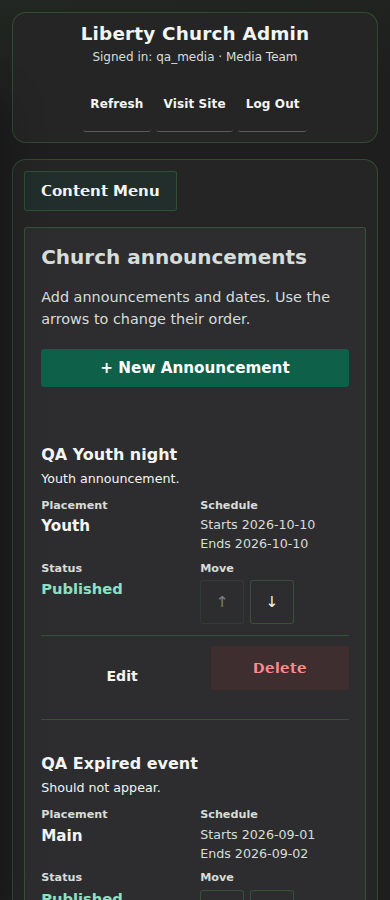
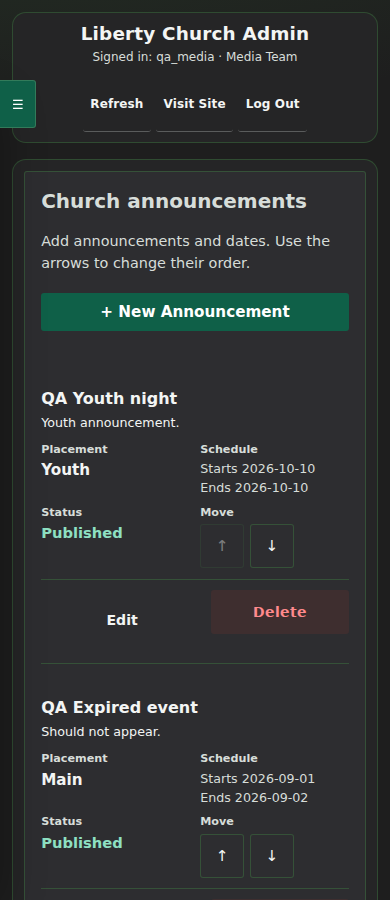
Clarify workspace heroes and restore floating navigation; make accounts readable on mobile
Separate role introductions from forms with light panels, dark text, and direct starting links. Restore the fixed left-edge menu tab and remove the redundant Content Menu button. Replace overflowing account tables with compact responsive entries and mobile account forms while preserving authentication, permissions, CSRF, and account safeguards.

Validated 320–1366px layouts, contrast, menu bounds, local QA account actions, existing role gates, cross-device planner persistence, archives, MMS, PHP syntax, and repeat deployment.

diff --git a/assets/admin-workspace.css b/assets/admin-workspace.css
@@ -143,12 +143,7 @@
 body.admin-dark:has(.planner-page) .admin-content-head {margin-bottom:0}
 body.admin-dark:has(.planner-page) .admin-content-head p {display:none}
 .planner-page .planner-breadcrumb {margin:.4rem 0 1rem}
-@media(min-width:1100px){
- body.admin-dark:has(.planner-page):not(.checklist-window) .admin-manager-panel{margin-left:296px}
- body.admin-dark:has(.planner-page):not(.checklist-window) .resource-nav{left:20px;top:135px;bottom:20px;width:280px;transform:none;border-radius:3px}
- body.admin-dark:has(.planner-page):not(.checklist-window) .resource-nav-launcher,
- body.admin-dark:has(.planner-page):not(.checklist-window) .resource-nav-backdrop{display:none}
-}
+
 @media(max-width:700px){
  body.admin-dark:has(.planner-page) .admin-topbar {padding:.55rem .6rem;gap:.25rem;margin-bottom:.6rem}
  body.admin-dark:has(.planner-page) .admin-topbar .admin-top-link{font-size:.75rem;padding:.35rem .3rem;min-height:32px}
@@ -286,3 +281,58 @@ body.admin-dark .admin-shell .announcement-move-cell .move-btn:disabled{opacity:
  body.admin-dark .admin-content:has(.albums-grid) .admin-content-head{display:none}
  .workspace .planner-section-tabs{margin:.6rem 0 .6rem;padding-bottom:.5rem}
 }
+
+/* A clear starting point, visually separate from the dark working area. */
+body.admin-dark .planner-page .planner-work-header{background:#edf3ef;color:#17392c;border:1px solid #a6bdae;border-left:5px solid #0f6048;border-radius:3px;padding:1.25rem;margin:0 0 1.25rem;box-sizing:border-box}
+body.admin-dark .planner-page .planner-work-header h2{color:#17392c;font-size:1.6rem;margin:.35rem 0 .6rem;max-width:42rem}
+body.admin-dark .planner-page .planner-work-header .planner-eyebrow{color:#0f6048;font-size:.78rem;text-transform:uppercase;letter-spacing:.08em;font-weight:700}
+body.admin-dark .planner-page .planner-work-header .planner-first-step{color:#345343;font-size:.95rem;line-height:1.6;margin:0}
+body.admin-dark .planner-page .planner-start-button{background:#0f6048;color:#fff;border:1px solid #0f6048;box-shadow:none;min-height:44px;margin:1rem 0 0;font-size:.9rem;text-decoration:none}
+body.admin-dark .planner-page .planner-start-button:hover{background:#124d3b;color:#fff}
+body.admin-dark .planner-page .planner-start-button:focus-visible{outline:3px solid #17392c;outline-offset:3px}
+#planner-work-start{scroll-margin-top:1rem}
+/* Restore the original fixed left-edge tab; there is no duplicate page button. */
+body.admin-dark .admin-shell .resource-nav-launcher:not(.open),body.admin-dark .admin-shell .resource-nav-launcher.open{display:inline-flex!important;top:5rem;width:36px;height:48px;opacity:1;background:#0f6048;color:#fff;border-radius:0 3px 3px 0!important;box-shadow:none}
+body.admin-dark .admin-shell .resource-nav-launcher:focus-visible{outline:2px solid #fff;outline-offset:2px}
+
+/* Compact account entries: identity, status, dates, then deliberate actions. */
+body.admin-dark .admin-content:has(.account-management) .admin-content-head,body.admin-dark .admin-content:has(.account-editor) .admin-content-head{display:none}
+body.admin-dark .admin-shell .account-management,body.admin-dark .admin-shell .account-editor{min-width:0;max-width:1050px;width:100%;box-sizing:border-box;gap:1rem}
+body.admin-dark .admin-shell .account-page-header{display:flex;gap:1rem;justify-content:space-between;align-items:center;background:#edf3ef;color:#17392c;border-left:4px solid #0f6048;border-radius:3px;padding:1.1rem}
+body.admin-dark .admin-shell .account-page-header h2{font-size:1.4rem;color:#17392c;margin:.25rem 0 .45rem;line-height:1.3}
+body.admin-dark .admin-shell .account-page-header p:not(.account-eyebrow){color:#345343;font-size:.9rem;line-height:1.5;margin:0}
+body.admin-dark .admin-shell .account-eyebrow{font-size:.75rem;letter-spacing:.08em;font-weight:700;line-height:1.5;margin:0;color:var(--admin-muted)}
+body.admin-dark .admin-shell .account-page-header .account-eyebrow{color:#0f6048}
+body.admin-dark .admin-shell .account-page-header .btn-primary{background:#0f6048;color:#fff;white-space:nowrap;box-shadow:none}
+body.admin-dark .admin-shell .account-list{list-style:none;padding:0;margin:0;min-width:0}
+body.admin-dark .admin-shell .account-entry{display:grid;grid-template-columns:minmax(0,1fr) auto;gap:.7rem 1rem;padding:1rem 0;border-bottom:1px solid var(--admin-border);align-items:start;min-width:0}
+body.admin-dark .admin-shell .account-entry:last-child{border-bottom:0;padding-bottom:0}
+body.admin-dark .admin-shell .account-identity{min-width:0;overflow-wrap:anywhere}
+body.admin-dark .admin-shell .account-identity h3{font-size:1.05rem;line-height:1.4;margin:0;color:var(--admin-text)}
+body.admin-dark .admin-shell .account-identity p{font-size:.85rem;line-height:1.5;margin:.2rem 0 0;color:var(--admin-muted)}
+body.admin-dark .admin-shell .account-identity small{display:block;color:#a4d9c4;margin-top:.2rem;font-size:.75rem}
+body.admin-dark .admin-shell .account-status{font-size:.75rem;line-height:1.4;font-weight:600;border-radius:3px;padding:.3rem .5rem;border:1px solid #498f75;white-space:nowrap}
+body.admin-dark .admin-shell .account-status.is-active{background:#173d30;color:#b4f8cf}
+body.admin-dark .admin-shell .account-status.is-disabled{background:#49282d;color:#ffbdc0;border-color:#a76066}
+body.admin-dark .admin-shell .account-metadata{display:grid;grid-template-columns:minmax(0,1fr) minmax(0,1fr);gap:.6rem;margin:0;grid-column:1/-1;min-width:0}
+body.admin-dark .admin-shell .account-metadata div{min-width:0}
+body.admin-dark .admin-shell .account-metadata dt{font-size:.72rem;line-height:1.5;color:var(--admin-muted);margin-bottom:.2rem}
+body.admin-dark .admin-shell .account-metadata dd{font-size:.8rem;line-height:1.5;margin:0;color:var(--admin-text);overflow-wrap:anywhere}
+body.admin-dark .admin-shell .account-actions{display:grid;grid-template-columns:1fr 1fr;gap:.5rem;grid-column:1/-1}
+body.admin-dark .admin-shell .account-actions form{display:block;margin:0;min-width:0}
+body.admin-dark .admin-shell .account-actions .btn,body.admin-dark .admin-shell .account-editor-actions .btn{box-sizing:border-box;min-width:0;width:100%;min-height:44px;font:inherit;font-size:.85rem;box-shadow:none;line-height:1.3}
+body.admin-dark .admin-shell .account-actions .btn-secondary{background:#303835;color:#f3f5f4;border:1px solid #526b5b}
+body.admin-dark .admin-shell .account-actions .btn-danger{background:#49282d;color:#ffbdc0;border:1px solid #a76066}
+body.admin-dark .admin-shell .account-actions .btn-primary{background:#0f6048;color:#fff;border:1px solid #498f75}
+body.admin-dark .admin-shell .account-editor h2{font-size:1.4rem;line-height:1.3;margin:.1rem 0}
+body.admin-dark .admin-shell .account-editor-intro{color:var(--admin-muted);margin:0;font-size:.9rem;line-height:1.6}
+body.admin-dark .admin-shell .account-editor .form-grid{grid-template-columns:minmax(0,1fr) minmax(0,1fr);gap:1rem}
+body.admin-dark .admin-shell .account-editor label{min-width:0;font-size:.85rem;line-height:1.5}
+body.admin-dark .admin-shell .account-editor input:not([type=checkbox]),body.admin-dark .admin-shell .account-editor select{box-sizing:border-box;width:100%;min-width:0;max-width:100%;min-height:44px;font-size:16px;background:#2d2d30;color:#f3f5f4;border:1px solid #6e8576}
+body.admin-dark .admin-shell .account-editor-actions{display:grid;grid-template-columns:minmax(0,2fr) minmax(0,1fr);gap:.6rem;padding-top:1rem;border-top:1px solid var(--admin-border)}
+@media(min-width:1000px){body.admin-dark .admin-shell .account-entry{grid-template-columns:minmax(0,1.3fr) auto minmax(0,1.5fr) 185px;align-items:center}body.admin-dark .admin-shell .account-metadata,body.admin-dark .admin-shell .account-actions{grid-column:auto}}
+@media(max-width:700px){body.admin-dark .planner-page .planner-work-header{padding:1rem;margin-bottom:1rem}body.admin-dark .planner-page .planner-work-header h2{font-size:1.35rem}body.admin-dark .planner-page .planner-work-header .planner-first-step{font-size:.9rem}body.admin-dark .planner-page .planner-start-button{width:100%;padding:.55rem .7rem}body.admin-dark .admin-shell .account-page-header{display:block;padding:.9rem}body.admin-dark .admin-shell .account-page-header .btn{display:flex;margin-top:.8rem;min-height:44px}body.admin-dark .admin-shell .account-editor .form-grid{grid-template-columns:minmax(0,1fr);gap:.8rem}body.admin-dark .admin-shell .account-entry{gap:.6rem .5rem}body.admin-dark .admin-shell .account-actions{margin-top:.15rem}}
+body.admin-dark .admin-content:has(.account-management),body.admin-dark .admin-content:has(.account-editor){min-width:0}
+body.admin-dark .admin-content:has(.account-management) .flash-stack,body.admin-dark .admin-content:has(.account-editor) .flash-stack{min-width:0;overflow-wrap:anywhere}
+body.admin-dark .admin-content:has(.account-management) .flash,body.admin-dark .admin-content:has(.account-editor) .flash{min-width:0;overflow-wrap:anywhere}
+body.admin-dark{--admin-nav-width:min(330px,calc(100vw - 44px))}

diff --git a/php/admin/service-planner/index.php b/php/admin/service-planner/index.php
@@ -31,9 +31,9 @@ try {
 }
 $popout=($_GET['popout']??'')==='1';
 if(!$popout)admin_page_start('Service Planner','service-planner');
-else { ?><!DOCTYPE html><html lang="en"><head><meta charset="utf-8"><meta name="viewport" content="width=device-width, initial-scale=1"><title>Sunday Checklist · Liberty Church</title><link rel="stylesheet" href="/assets/admin.css"><link rel="stylesheet" href="/assets/admin-workspace.css?v=3"></head><body class="admin-dark guide-body checklist-window"><main><?php }
+else { ?><!DOCTYPE html><html lang="en"><head><meta charset="utf-8"><meta name="viewport" content="width=device-width, initial-scale=1"><title>Sunday Checklist · Liberty Church</title><link rel="stylesheet" href="/assets/admin.css"><link rel="stylesheet" href="/assets/admin-workspace.css?v=4"></head><body class="admin-dark guide-body checklist-window"><main><?php }
 ?>
-<link rel="stylesheet" href="/assets/admin-workspace.css?v=3">
+<link rel="stylesheet" href="/assets/admin-workspace.css?v=4">
 <div class="workspace planner-page" id="service-planner" data-popout="<?=$popout?'1':'0'?>" data-section="<?=sp_e($section)?>" data-service-id="<?=$id?>" data-revision="<?=(int)($service['revision']??0)?>" data-archived="<?=!empty($service['is_archived'])?'1':'0'?>">
 <?php if($popout): ?><header class="guide-header"><h1>Sunday Checklist</h1><button class="btn btn-secondary" type="button" id="close-guide" hidden>Close</button></header><?php if($id): ?><nav class="planner-section-tabs"><a href="<?=sp_e(sp_page_url($id,'media',$computers))?>">Checklists</a><a href="<?=sp_e(sp_page_url($id,'sheet',$computers))?>">Service Sheet</a><a href="<?=sp_e(sp_page_url($id,'notes',$computers))?>">Notes</a></nav><?php endif; endif; ?>
 <?php if(!$popout)sp_work_intro($section,(bool)$service,(bool)$computers,(bool)($service['is_archived']??false)); ?>
@@ -42,7 +42,7 @@ else { ?><!DOCTYPE html><html lang="en"><head><meta charset="utf-8"><meta name="
     <p class="planner-eyebrow">START HERE</p><h3>1. Choose the Sunday</h3>
     <p>Then open your section from the left menu.</p>
     <?php if(sp_can_operate_media()): ?><a class="guide-link" href="<?=sp_e(sp_guide_url(0))?>" data-guide-popup target="liberty-service-guide">Open station manual ↗</a><?php endif; ?>
-    <section class="workspace-section"><h3>Open a Sunday service</h3>
+    <section class="workspace-section" id="planner-work-start" tabindex="-1"><h3>Open a Sunday service</h3>
     <?php if(!empty($services)): ?><ul class="service-history"><?php foreach($services as $item): $date=new DateTimeImmutable($item['service_date']); ?>
         <li><a class="feed-link" href="<?=sp_e(sp_page_url((int)$item['id'],$section,$computers))?>"><span>Sunday, <?=sp_e($date->format('F j, Y'))?> · Week <?=sp_e($date->format('W'))?></span><span><?=$item['is_archived']?'Archived':'Open'?></span></a></li>
     <?php endforeach; ?></ul><?php else: ?><p>No Sunday services yet.</p><?php endif; ?>
@@ -69,13 +69,13 @@ else { ?><!DOCTYPE html><html lang="en"><head><meta charset="utf-8"><meta name="
     <?php elseif(in_array($section,['sheet','notes'],true)): ?>
         <?php require __DIR__.'/service-sheet.php'; ?>
     <?php elseif($section==='announcements'): ?>
-        <section class="workspace-section"><p class="planner-eyebrow">PASTOR</p><h3>Church announcements</h3><nav class="planner-section-tabs"><a href="<?=sp_e(sp_page_url($id,'sermon'))?>">Sermon</a><a href="<?=sp_e(sp_page_url($id,'announcements'))?>" aria-current="page">Announcements</a></nav>
+        <section class="workspace-section" id="planner-work-start" tabindex="-1"><p class="planner-eyebrow">PASTOR</p><h3>Church announcements</h3><nav class="planner-section-tabs"><a href="<?=sp_e(sp_page_url($id,'sermon'))?>">Sermon</a><a href="<?=sp_e(sp_page_url($id,'announcements'))?>" aria-current="page">Announcements</a></nav>
         <form method="post" data-planner-form><?php sp_hidden($service,'announcements'); ?><fieldset <?=$archived?'disabled':''?> style="border:0;padding:0"><label for="announcement-notes">Announcement notes for Media</label><p>List dates, reminders, and what Media needs to prepare for this Sunday.</p><textarea id="announcement-notes" name="announcement_notes" maxlength="12000"><?=sp_e($service['sermon']['announcement_notes']??'')?></textarea><?php if(!$archived): ?><div class="actions"><button class="btn btn-primary" type="submit">Save announcement notes</button></div><?php endif; ?></fieldset><p class="save-message" role="status"></p></form>
         </section><section class="workspace-section"><h3>Website announcements &amp; upcoming dates</h3><p>Use the existing announcement editor for wording and dates. The team sees current and upcoming announcements on the Service Sheet.</p><?php if(!$archived): ?><div class="actions"><a class="btn btn-primary" href="/php/admin/announcements/new.php">Add church announcement</a><a class="btn btn-secondary" href="/php/admin/announcements/index.php">Manage church announcements</a></div><?php endif; ?>
         <?php foreach(sp_service_announcements($pdo,$service) as $announcement): ?><article class="sheet-announcement"><h4><?=sp_e($announcement['title'])?></h4><p><?=sp_e(sp_announcement_dates($announcement))?></p><div class="reference"><?=sp_e($announcement['body'])?></div></article><?php endforeach; ?></section>
         <?php sp_media_readiness($statuses); ?>
     <?php elseif($section==='sermon'): ?>
-        <section class="workspace-section"><p class="planner-eyebrow">PASTOR</p><div class="editor-heading"><h3>Sermon information</h3><?php sp_badge('sermon',$statuses['sermon']); ?></div><p>Enter the sermon once for the whole team.</p>
+        <section class="workspace-section" id="planner-work-start" tabindex="-1"><p class="planner-eyebrow">PASTOR</p><div class="editor-heading"><h3>Sermon information</h3><?php sp_badge('sermon',$statuses['sermon']); ?></div><p>Enter the sermon once for the whole team.</p>
         <nav class="planner-section-tabs"><a href="<?=sp_e(sp_page_url($id,'sermon'))?>" aria-current="page">Sermon</a><a href="<?=sp_e(sp_page_url($id,'announcements'))?>">Announcements</a></nav>
         <form method="post" data-planner-form><?php sp_hidden($service,'sermon'); ?><fieldset <?=$archived?'disabled':''?> style="border:0;padding:0;margin:0">
         <?php foreach(['title'=>'Sermon title','primary_scripture'=>'Primary scripture','additional_scriptures'=>'Additional scriptures'] as $key=>$label): ?>
@@ -88,7 +88,7 @@ else { ?><!DOCTYPE html><html lang="en"><head><meta charset="utf-8"><meta name="
         <?php if(!$archived): ?><div class="actions"><button class="btn btn-primary" type="submit">Save sermon information</button><a class="guide-link editor-sheet-link" href="<?=sp_e(sp_page_url($id,'sheet'))?>">View Service Sheet →</a></div><?php endif; ?></fieldset><p class="save-message" role="status"></p></form></section>
         <?php sp_media_readiness($statuses); ?>
     <?php elseif($section==='worship'): ?>
-        <section class="workspace-section"><p class="planner-eyebrow">MUSIC MINISTER</p><div class="editor-heading"><h3>Worship plan</h3><?php sp_badge('worship',$statuses['worship']); ?></div><p>Enter the songs in service order.</p>
+        <section class="workspace-section" id="planner-work-start" tabindex="-1"><p class="planner-eyebrow">MUSIC MINISTER</p><div class="editor-heading"><h3>Worship plan</h3><?php sp_badge('worship',$statuses['worship']); ?></div><p>Enter the songs in service order.</p>
         <form method="post" data-planner-form id="worship-form"><?php sp_hidden($service,'worship'); ?><fieldset <?=$archived?'disabled':''?> style="border:0;padding:0;margin:0">
         <div id="songs">
         <?php foreach($service['worship'] as $i=>$song)sp_song_editor($song,$i,$archived); ?>

diff --git a/php/admin/users/index.php b/php/admin/users/index.php
@@ -12,56 +12,38 @@ $roleLabels = admin_role_labels();
 
 admin_page_start('Manage Users', 'users');
 ?>
-<div class="card" style="gap:24px;">
-    <div style="display:flex;flex-wrap:wrap;gap:12px;align-items:center;justify-content:space-between;">
-        <div>
-            <h3 style="margin:0;">Administrator Accounts</h3>
-            <p style="margin:6px 0 0;color:var(--admin-muted);">Create, disable, or update login access for the team.</p>
-        </div>
+<section class="card account-management" aria-labelledby="accounts-heading">
+    <header class="account-page-header">
+        <div><p class="account-eyebrow">TEAM ACCESS</p><h2 id="accounts-heading">Manage accounts</h2>
+        <p>View each person’s access. Choose Edit to update their account.</p></div>
         <a class="btn btn-primary" href="/php/admin/users/new.php">Add user</a>
-    </div>
-
+    </header>
     <?php if ($users): ?>
-        <table class="table">
-            <thead>
-                <tr>
-                    <th>Username</th>
-                    <th>Role</th>
-                    <th>Status</th>
-                    <th>Created</th>
-                    <th>Last login</th>
-                    <th></th>
-                </tr>
-            </thead>
-            <tbody>
-            <?php foreach ($users as $user): ?>
-                <tr>
-                    <td><?= htmlspecialchars($user['username']) ?></td>
-                    <td><?= htmlspecialchars($roleLabels[$user['role']] ?? ucfirst($user['role'])) ?></td>
-                    <td>
-                        <?= (int)$user['is_active'] ? '<span class="badge">Active</span>' : '<span class="badge danger">Disabled</span>'; ?>
-                    </td>
-                    <td><?= htmlspecialchars(format_datetime((string)$user['created_at'])) ?></td>
-                    <td><?= $user['last_login'] ? htmlspecialchars(format_datetime((string)$user['last_login'])) : '<span class="badge muted">Never</span>' ?></td>
-                    <td class="actions">
-                        <a class="btn btn-secondary" href="/php/admin/users/edit.php?id=<?= (int)$user['id'] ?>">Edit</a>
-                        <?php if ((int)$user['id'] !== (admin_current_user()['id'] ?? 0)): ?>
-                            <form method="post" action="toggle.php" onsubmit="return confirm('Toggle active status for <?= htmlspecialchars($user['username']) ?>?');">
-                                <input type="hidden" name="csrf_token" value="<?= htmlspecialchars(csrf_token()) ?>">
-                                <input type="hidden" name="id" value="<?= (int)$user['id'] ?>">
-                                <button class="btn <?= (int)$user['is_active'] ? 'btn-danger' : 'btn-primary' ?>" type="submit">
-                                    <?= (int)$user['is_active'] ? 'Disable' : 'Activate' ?>
-                                </button>
-                            </form>
-                        <?php endif; ?>
-                    </td>
-                </tr>
-            <?php endforeach; ?>
-            </tbody>
-        </table>
-    <?php else: ?>
-        <div class="empty-state">No admin accounts created yet.</div>
-    <?php endif; ?>
-</div>
-<?php
-admin_page_end();
+    <ul class="account-list" aria-label="Team accounts">
+    <?php foreach ($users as $user): $isSelf = (int)$user['id'] === (admin_current_user()['id'] ?? 0); ?>
+        <li class="account-entry">
+            <div class="account-identity"><h3><?= htmlspecialchars($user['username']) ?></h3>
+                <p><?= htmlspecialchars($roleLabels[$user['role']] ?? ucfirst($user['role'])) ?></p>
+                <?php if ($isSelf): ?><small>Your account</small><?php endif; ?>
+            </div>
+            <span class="account-status <?= (int)$user['is_active'] ? 'is-active' : 'is-disabled' ?>"><?= (int)$user['is_active'] ? 'Active' : 'Disabled' ?></span>
+            <dl class="account-metadata">
+                <div><dt>Created</dt><dd><?= htmlspecialchars(format_datetime((string)$user['created_at'])) ?></dd></div>
+                <div><dt>Last login</dt><dd><?= $user['last_login'] ? htmlspecialchars(format_datetime((string)$user['last_login'])) : 'Never' ?></dd></div>
+            </dl>
+            <div class="account-actions" role="group" aria-label="Actions for <?= htmlspecialchars($user['username']) ?>">
+                <a class="btn btn-secondary" href="/php/admin/users/edit.php?id=<?= (int)$user['id'] ?>">Edit</a>
+                <?php if (!$isSelf): ?>
+                <form method="post" action="toggle.php" onsubmit="return confirm('Toggle active status for <?= htmlspecialchars($user['username']) ?>?');">
+                    <input type="hidden" name="csrf_token" value="<?= htmlspecialchars(csrf_token()) ?>">
+                    <input type="hidden" name="id" value="<?= (int)$user['id'] ?>">
+                    <button class="btn <?= (int)$user['is_active'] ? 'btn-danger' : 'btn-primary' ?>" type="submit"><?= (int)$user['is_active'] ? 'Disable' : 'Activate' ?></button>
+                </form>
+                <?php endif; ?>
+            </div>
+        </li>
+    <?php endforeach; ?>
+    </ul>
+    <?php else: ?><div class="empty-state">No admin accounts created yet.</div><?php endif; ?>
+</section>
+<?php admin_page_end();

diff --git a/deploy/feature.php b/deploy/feature.php
@@ -57,7 +57,7 @@ if (!str_contains($layout, 'admin_workspace_groups($resourceGroups)')) {
  if ($count !== 1) throw new RuntimeException('Could not integrate admin navigation. No live files changed.');
 }
 if (!str_contains($layout, '/assets/admin-workspace.css')) {
- $layout = str_replace('</head>', '<link rel="stylesheet" href="/assets/admin-workspace.css?v=3">'."\n</head>", $layout);
+ $layout = str_replace('</head>', '<link rel="stylesheet" href="/assets/admin-workspace.css?v=4">'."\n</head>", $layout);
 }
 if (!str_contains($layout, 'admin_workspace_navigation($active)')) {
  $menuLoop = '<?php foreach ($resourceGroups as $group): ?>';
@@ -67,12 +67,15 @@ if (!str_contains($layout, 'admin_workspace_navigation($active)')) {
 $layout = str_replace('<a class="resource-link" href="/php/admin/features/index.php">Feature</a>', '', $layout);
 // Keep overrides after the host stylesheet, and expire cached planner assets.
 $layout=preg_replace('~<link\b[^>]*href="/assets/admin-workspace\.css[^"\s]*"[^>]*>~','',$layout);
-$layout=str_replace('</head>','<link rel="stylesheet" href="/assets/admin-workspace.css?v=3">'."\n</head>",$layout);
+$layout=str_replace('</head>','<link rel="stylesheet" href="/assets/admin-workspace.css?v=4">'."\n</head>",$layout);
+// Restore the existing floating left-edge navigation control.
+$layout=preg_replace('~<div\b[^>]*class="admin-mobile-row"[^>]*>\s*<button\b[^>]*class="[^"]*resource-menu-inline[^"]*"[^>]*>.*?</button>\s*</div>~s','',$layout);
+$layout=str_replace('aria-label="Open content menu"','aria-label="Open navigation menu"',$layout);
 add_write('php/admin/layout.php',$layout);
 $ht=is_file($root.'/.htaccess')?file_get_contents($root.'/.htaccess'):'';
 if (!str_contains($ht,'RewriteRule ^operation-christmas-child')) $ht="<IfModule mod_rewrite.c>\nRewriteEngine On\nRewriteRule ^operation-christmas-child/?$ operation-christmas-child.php [L]\n</IfModule>\n".$ht;
 add_write('.htaccess',$ht);
-foreach (['api/feature/index.php','assets/js/feature.js','assets/occ.css','assets/ui-preferences.css','assets/operation-christmas-child.jpg','assets/operation-christmas-child-share.png','operation-christmas-child.php','php/features.php','php/api/feature.php','php/admin/features/index.php','php/admin/service-planner/access.php','php/admin/workspace-navigation.php','php/admin/media/index.php','php/admin/service-planner/presentation.php','php/admin/service-planner/checklists.php','php/admin/service-planner/foh.php','php/admin/service-planner/guide.php','php/admin/service-planner/service-sheet.php','php/admin/service-planner/model.php','php/admin/service-planner/index.php','php/admin/service-planner/state.php','php/admin/service-planner/default-tasks.json','database/service_planner.sql','assets/admin-workspace.css','assets/js/service-planner.js','assets/js/service-guide.js','php/admin/announcements/index.php','php/admin/announcements/new.php'] as $path) {
+foreach (['api/feature/index.php','assets/js/feature.js','assets/occ.css','assets/ui-preferences.css','assets/operation-christmas-child.jpg','assets/operation-christmas-child-share.png','operation-christmas-child.php','php/features.php','php/api/feature.php','php/admin/features/index.php','php/admin/service-planner/access.php','php/admin/workspace-navigation.php','php/admin/media/index.php','php/admin/service-planner/presentation.php','php/admin/service-planner/checklists.php','php/admin/service-planner/foh.php','php/admin/service-planner/guide.php','php/admin/service-planner/service-sheet.php','php/admin/service-planner/model.php','php/admin/service-planner/index.php','php/admin/service-planner/state.php','php/admin/service-planner/default-tasks.json','database/service_planner.sql','assets/admin-workspace.css','assets/js/service-planner.js','assets/js/service-guide.js','php/admin/announcements/index.php','php/admin/announcements/new.php','php/admin/users/index.php','php/admin/users/new.php','php/admin/users/edit.php'] as $path) {
  $source=$repo.'/'.$path;
  if (!is_file($source)) throw new RuntimeException('Missing feature file: '.$path);
  add_write($path,file_get_contents($source));

diff --git a/tests/service_planner_deploy_test.py b/tests/service_planner_deploy_test.py
@@ -4,12 +4,16 @@ if os.environ.get('DB_NAME')!='church_test':raise RuntimeError('Use the isolated
 r=Path(__file__).resolve().parent.parent;tmp=Path(tempfile.mkdtemp(prefix='church-deploy-check-'));target=tmp/'public_html'
 shutil.copytree(r,target,ignore=shutil.ignore_patterns('.git','node_modules','uploads'))
 marker='<!-- QA custom host content retained -->';p=target/'index.html';p.write_text(p.read_text().replace('</body>',marker+'\n</body>'))
-config=(target/'php/config.php').read_bytes();auth=(target/'php/admin/bootstrap.php').read_bytes()
+host_layout=target/'php/admin/layout.php'
+host_layout.write_text(host_layout.read_text().replace('<header class="admin-content-head">','<div class="admin-mobile-row"><button type="button" class="btn btn-secondary resource-menu-inline" aria-controls="adminResourceMenu">Content Menu</button></div><header class="admin-content-head">'))
+config=(target/'php/config.php').read_bytes();auth=(target/'php/admin/bootstrap.php').read_bytes();toggle=(target/'php/admin/users/toggle.php').read_bytes()
 php=[os.environ.get('PLANNER_TEST_PHP','php')]+json.loads(os.environ.get('PLANNER_TEST_PHP_ARGUMENTS','[]'))
 for i in range(2):
  result=subprocess.run(php+[str(r/'deploy/feature.php'),str(target)],capture_output=True,text=True);assert result.returncode==0,result.stderr
  assert marker in (target/'index.html').read_text();assert config==(target/'php/config.php').read_bytes();assert auth==(target/'php/admin/bootstrap.php').read_bytes()
- layout=(target/'php/admin/layout.php').read_text();assert layout.count('admin_workspace_navigation($active)')==1;assert 'admin-workspace.css?v=3' in layout
+ layout=(target/'php/admin/layout.php').read_text();assert layout.count('admin_workspace_navigation($active)')==1;assert 'admin-workspace.css?v=4' in layout
+ assert toggle==(target/'php/admin/users/toggle.php').read_bytes();assert 'Content Menu</button>' not in layout
+ for file in ['index.php','edit.php','new.php']:assert (target/'php/admin/users'/file).read_bytes()==(r/'php/admin/users'/file).read_bytes()
  for file in ['access.php','guide.php','checklists.php','foh.php','presentation.php','service-sheet.php']:assert (target/'php/admin/service-planner'/file).exists()
  assert subprocess.run(php+['-l',str(target/'php/admin/layout.php')],capture_output=True).returncode==0
 before=(target/'index.html').read_bytes();p=target/'php/admin/layout.php';p.write_text('<?php function admin_page_start() {} ?>');bad=subprocess.run(php+[str(r/'deploy/feature.php'),str(target)],capture_output=True,text=True);assert bad.returncode!=0;assert before==(target/'index.html').read_bytes()

diff --git a/php/admin/layout.php b/php/admin/layout.php
@@ -123,7 +123,7 @@ function admin_page_start(string $title, string $active = ''): void
         <link rel="preconnect" href="https://fonts.gstatic.com" crossorigin>
         <link href="https://fonts.googleapis.com/css2?family=Inter:wght@400;500;600;700&display=swap" rel="stylesheet">
         <link rel="stylesheet" href="/assets/admin.css?v=<?= rawurlencode($cssVersion) ?>">
-        <link rel="stylesheet" href="/assets/admin-workspace.css?v=3">
+        <link rel="stylesheet" href="/assets/admin-workspace.css?v=4">
     </head>
     <body class="admin-dark">
     <div class="admin-shell">
@@ -140,7 +140,7 @@ function admin_page_start(string $title, string $active = ''): void
         </header>
 
         <section class="admin-manager-panel">
-            <button type="button" class="resource-nav-launcher" aria-label="Open content menu" aria-expanded="false" aria-controls="adminResourceMenu">
+            <button type="button" class="resource-nav-launcher" aria-label="Open navigation menu" aria-expanded="false" aria-controls="adminResourceMenu">
                 <span class="launcher-open" aria-hidden="true">☰</span>
                 <span class="launcher-close" aria-hidden="true">×</span>
             </button>
@@ -187,9 +187,6 @@ function admin_page_start(string $title, string $active = ''): void
             </aside>
 
             <main class="admin-content">
-                <div class="admin-mobile-row">
-                    <button type="button" class="btn btn-secondary resource-menu-inline" aria-expanded="false" aria-controls="adminResourceMenu">Content Menu</button>
-                </div>
                 <header class="admin-content-head">
                     <div>
                         <h2><?= htmlspecialchars($title) ?></h2>

diff --git a/php/admin/service-planner/guide.php b/php/admin/service-planner/guide.php
@@ -41,7 +41,7 @@ try {
 }catch(Throwable $e){if($uploadedPath && is_file($uploadedPath))unlink($uploadedPath);$error=$e instanceof InvalidArgumentException || $e->getCode()===409?$e->getMessage():'The guide could not load or save. Try again.';if(!($e instanceof InvalidArgumentException) && $e->getCode()!==409)error_log($e->getMessage());}
 $resources=$task?sp_decode($task['resources_json']??'[]'):[];
 ?>
-<!DOCTYPE html><html lang="en"><head><meta charset="utf-8"><meta name="viewport" content="width=device-width, initial-scale=1"><title><?=sp_e($task?$task['title']:'Station Manual')?> · Liberty Church</title><link rel="stylesheet" href="/assets/admin.css"><link rel="stylesheet" href="/assets/admin-workspace.css?v=3"></head>
+<!DOCTYPE html><html lang="en"><head><meta charset="utf-8"><meta name="viewport" content="width=device-width, initial-scale=1"><title><?=sp_e($task?$task['title']:'Station Manual')?> · Liberty Church</title><link rel="stylesheet" href="/assets/admin.css"><link rel="stylesheet" href="/assets/admin-workspace.css?v=4"></head>
 <body class="admin-dark guide-body"><main class="workspace guide-workspace">
     <header class="guide-header"><div><p class="planner-eyebrow">LIBERTY CHURCH</p><h1>Station Manual</h1></div><button type="button" class="btn btn-secondary" id="close-guide" hidden>Close guide</button></header>
     <nav class="planner-breadcrumb"><a href="<?=sp_e(sp_guide_url($id))?>">All stations</a><?php if($station): ?><span aria-hidden="true">/</span><a href="<?=sp_e(sp_guide_url($id,$station))?>"><?=sp_e(sp_stations()[$station][0])?></a><?php endif; ?></nav>

diff --git a/php/admin/service-planner/presentation.php b/php/admin/service-planner/presentation.php
@@ -127,5 +127,6 @@ function sp_work_intro(string $section, bool $hasSunday, bool $hasStations, bool
     if(!$intro)return;
     if(!$hasSunday)$intro[2]='First, open the Sunday service below. Then complete your section.';
     if($archived){$intro[1]='Saved Sunday · '.$intro[0];$intro[2]='This Sunday is archived. You can read its saved information and completion state.';}
-    ?><header class="planner-work-header"><p class="planner-eyebrow"><?=sp_e($intro[0])?> workspace</p><h2><?=sp_e($intro[1])?></h2><p class="planner-first-step"><?=sp_e($intro[2])?></p></header><?php
+    $startLabel=$archived?'View saved information':(!$hasSunday?'Choose a Sunday':match($section){'sermon'=>'Start with sermon information','announcements'=>'Start with announcement notes','worship'=>'Start with the song list',default=>$hasStations?'Open my checklists':'Choose my stations'});
+    ?><header class="planner-work-header"><p class="planner-eyebrow"><?=sp_e($intro[0])?> workspace</p><h2><?=sp_e($intro[1])?></h2><p class="planner-first-step"><?=sp_e($intro[2])?></p><a class="btn planner-start-button" href="#planner-work-start"><?=sp_e($startLabel)?> <span aria-hidden="true">↓</span></a></header><?php
 }

diff --git a/php/admin/users/edit.php b/php/admin/users/edit.php
@@ -101,9 +101,9 @@ if ($_SERVER['REQUEST_METHOD'] === 'POST') {
 $roleLabels = admin_role_labels();
 admin_page_start('Edit User', 'users');
 ?>
-<div class="card">
-    <h3>Edit Administrator</h3>
-    <p style="margin-top:-6px;color:var(--admin-muted);">Update credentials or permissions. Leave password blank to keep the current one.</p>
+<div class="card account-editor">
+    <p class="account-eyebrow">TEAM ACCESS</p><h2>Edit account</h2>
+    <p class="account-editor-intro">Update credentials or permissions. Leave password blank to keep the current one.</p>
 
     <?php if ($errors): ?>
         <div class="flash flash-error">
@@ -148,7 +148,7 @@ admin_page_start('Edit User', 'users');
                 <input type="password" name="password_confirm" autocomplete="new-password" placeholder="Leave blank to keep current password">
             </label>
         </div>
-        <div style="display:flex;gap:12px;">
+        <div class="account-editor-actions">
             <button class="btn btn-primary" type="submit">Save changes</button>
             <a class="btn btn-secondary" href="/php/admin/users/index.php">Cancel</a>
         </div>

diff --git a/php/admin/users/new.php b/php/admin/users/new.php
@@ -60,9 +60,9 @@ if ($_SERVER['REQUEST_METHOD'] === 'POST') {
 $roleLabels = admin_role_labels();
 admin_page_start('Add User', 'users');
 ?>
-<div class="card">
-    <h3>Create Administrator</h3>
-    <p style="margin-top:-6px;color:var(--admin-muted);">Grant access to trusted team members. Passwords are stored securely using bcrypt.</p>
+<div class="card account-editor">
+    <p class="account-eyebrow">TEAM ACCESS</p><h2>Add an account</h2>
+    <p class="account-editor-intro">Enter a username, choose an existing role, and set a password.</p>
 
     <?php if ($errors): ?>
         <div class="flash flash-error">
@@ -100,7 +100,7 @@ admin_page_start('Add User', 'users');
                 <input type="password" name="password_confirm" required autocomplete="new-password">
             </label>
         </div>
-        <div style="display:flex;gap:12px;">
+        <div class="account-editor-actions">
             <button class="btn btn-primary" type="submit">Create user</button>
             <a class="btn btn-secondary" href="/php/admin/users/index.php">Cancel</a>
         </div>

diff --git a/tests/service_planner_fixture.php b/tests/service_planner_fixture.php
@@ -2,7 +2,7 @@
 if(getenv('DB_NAME')!=='church_test')throw new RuntimeException('Isolated DB only');
 require getcwd().'/php/config.php';
 require getcwd().'/php/admin/service-planner/model.php';
-$pdo=db();$pdo->exec(file_get_contents(getcwd().'/database/glc_cpanel_full_schema.sql'));sp_schema($pdo);
+$pdo=db();$pdo->exec(file_get_contents(getcwd().'/database/glc_cpanel_full_schema.sql'));sp_schema($pdo);$pdo->exec("DELETE FROM admin_users WHERE username IN ('qa_mobile_account','qa_mobile_account_with_a_long_username')");
 foreach(['pastor','admin','music_minister','media','sound','worship_team','youth_minister'] as $role){$s=$pdo->prepare('INSERT INTO admin_users(username,password_hash,role,is_active) VALUES(?,?,?,1) ON DUPLICATE KEY UPDATE password_hash=VALUES(password_hash),role=VALUES(role),is_active=1');$s->execute(['qa_'.$role,password_hash('local-test-only',PASSWORD_DEFAULT),$role]);}
 $pdo->exec('DELETE FROM service_task_completions');$pdo->exec('DELETE FROM service_plans');
 sp_mutate($pdo,['action'=>'create','service_date'=>'2026-10-04'],'qa_pastor');

diff --git a/php/admin/service-planner/checklists.php b/php/admin/service-planner/checklists.php
@@ -2,7 +2,7 @@
 // Included by the authenticated planner page. Not a standalone route.
 if (!isset($service, $tasks, $computers)) { http_response_code(404); exit; }
 ?>
-<section class="workspace-section checklist-controls"><p class="planner-eyebrow">MEDIA TEAM</p><h3><?=$computers?'Your station checklists':'3. Choose your computers'?></h3>
+<section class="workspace-section checklist-controls" id="planner-work-start" tabindex="-1"><p class="planner-eyebrow">MEDIA TEAM</p><h3><?=$computers?'Your station checklists':'3. Choose your computers'?></h3>
 <?php if(!$computers): ?>
     <?php sp_station_picker($id,[]); ?>
 <?php else: ?>
